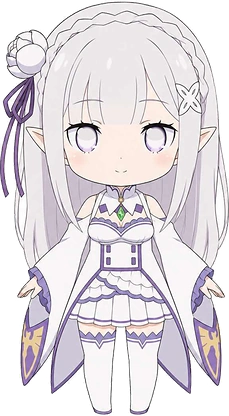
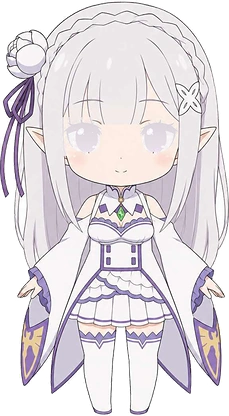
fix(pet): 眼部改三层结构，修复底层残留眼球与闭眼整片发白
- 底图：整只眼内部铺满眼白（提亮 35%，纵向微渐变），彻底清掉原虹膜，不再出现“上层动、底层不动”
- 虹膜层：彩色连通块填洞 + 外扩 2px，仅此层跟随指针
- 睫毛层：眼内深色像素（挖掉虹膜）外扩 1px，固定置顶，压住虹膜越界部分
- 闭眼帧：按整只眼内区域覆盖肤色 + 睫毛弧，不再只盖虹膜导致眼眶发白
- 闭眼帧预载降到 1×（省 27KB）

Changed region(s): [[0.2445, 0.2812, 0.4279, 0.375], [0.6114, 0.2812, 0.7642, 0.375]]

diff --git a/source/js/pet.js b/source/js/pet.js
@@ -39,16 +39,21 @@
   var SPRITE_CLOSED_1X = '/images/pet/front_closed_208.webp';
   var SPRITE_CLOSED_2X = '/images/pet/front_closed_416.webp';
   var SPRITE_CLOSED_3X = '/images/pet/front_closed_624.webp';
-  // 只覆盖虹膜本体（底图里的虹膜已被抹成眼白），眼眶/睫毛不动
+  // 三层结构：底图（眼内已铺满眼白）+ 会动的虹膜 + 固定在最上层的睫毛/眼眶
   var EYES = [
-    { src: '/images/pet/iris_l.webp', src2: '/images/pet/iris_l@2x.webp', src3: '/images/pet/iris_l@3x.webp', x: 32.81, y: 30.15, w: 9.90, h: 6.01 },
-    { src: '/images/pet/iris_r.webp', src2: '/images/pet/iris_r@2x.webp', src3: '/images/pet/iris_r@3x.webp', x: 63.02, y: 30.25, w: 9.55, h: 5.92 }
+    { src: '/images/pet/iris_l.webp', src2: '/images/pet/iris_l@2x.webp', src3: '/images/pet/iris_l@3x.webp', x: 32.29, y: 29.87, w: 11.11, h: 6.68 },
+    { src: '/images/pet/iris_r.webp', src2: '/images/pet/iris_r@2x.webp', src3: '/images/pet/iris_r@3x.webp', x: 62.33, y: 31.30, w: 10.94, h: 5.34 }
+  ];
+  var LASHES = [
+    { src: '/images/pet/lash_l.webp', src2: '/images/pet/lash_l@2x.webp', src3: '/images/pet/lash_l@3x.webp', x: 26.91, y: 27.96, w: 17.88, h: 9.73 },
+    { src: '/images/pet/lash_r.webp', src2: '/images/pet/lash_r@2x.webp', src3: '/images/pet/lash_r@3x.webp', x: 60.94, y: 28.63, w: 17.19, h: 8.49 }
   ];
   var MAX_EYE_X = 2.0, MAX_EYE_Y = 1.3;   // 虹膜最大位移（CSS px，1x）
   var TILT_START = 0.62;                  // 指针偏移超过这个比例才开始带头部倾斜
   var MAX_TILT_Y = 3.2, MAX_TILT_X = 2.2;
   var artEl = null;             // 承载倾斜的 card
-  var eyeEls = [];              // 眼睛跟随补丁层
+  var eyeEls = [];              // 虹膜补丁（跟随）
+  var lashEls = [];             // 睫毛/眼眶补丁（固定，置于最上层）
   var layers = [];              // 兼容旧接口，sprite 模式恒为空
   var headTilt = null;
   var target = { x: 0, y: 0 };  // 归一化指针方向 [-1,1]
@@ -171,23 +176,28 @@
     kickTilt();
   }
 
+  function addLayer(card, cfg, cls, collect) {
+    var el2 = document.createElement('img');
+    el2.className = cls;
+    el2.alt = '';
+    el2.draggable = false;
+    el2.src = cfg.src;
+    el2.srcset = cfg.src2 + ' 2x, ' + cfg.src3 + ' 3x';
+    el2.style.left = cfg.x + '%';
+    el2.style.top = cfg.y + '%';
+    el2.style.width = cfg.w + '%';
+    el2.style.height = cfg.h + '%';
+    card.appendChild(el2);
+    if (collect) collect.push(el2);
+    return el2;
+  }
+
   function buildEyeLayers(card) {
     eyeEls = [];
-    for (var i = 0; i < EYES.length; i++) {
-      var cfg = EYES[i];
-      var el2 = document.createElement('img');
-      el2.className = 'pet-eye';
-      el2.alt = '';
-      el2.draggable = false;
-      el2.src = cfg.src;
-      el2.srcset = cfg.src2 + ' 2x, ' + cfg.src3 + ' 3x';
-      el2.style.left = cfg.x + '%';
-      el2.style.top = cfg.y + '%';
-      el2.style.width = cfg.w + '%';
-      el2.style.height = cfg.h + '%';
-      card.appendChild(el2);
-      eyeEls.push(el2);
-    }
+    lashEls = [];
+    for (var i = 0; i < EYES.length; i++) addLayer(card, EYES[i], 'pet-eye', eyeEls);
+    // 睫毛层最后添加 → 永远盖在虹膜之上，虹膜移动时被它裁住不会越界
+    for (var j = 0; j < LASHES.length; j++) addLayer(card, LASHES[j], 'pet-lash', lashEls);
   }
 
   function mountArt(card, img) {
@@ -223,10 +233,12 @@
     if (!blinkImg || !el || document.hidden) { scheduleBlink(); return; }
     blinkOn = true;
     for (var i = 0; i < eyeEls.length; i++) eyeEls[i].style.opacity = '0';
+    for (var k = 0; k < lashEls.length; k++) lashEls[k].style.opacity = '0';
     swapFrame(blinkImg, true);
     setTimeout(function () {
       blinkOn = false;
       for (var j = 0; j < eyeEls.length; j++) eyeEls[j].style.opacity = '1';
+      for (var m = 0; m < lashEls.length; m++) lashEls[m].style.opacity = '1';
       if (blinkImg) swapFrame(blinkImg, false);
       scheduleBlink();
     }, 135);
@@ -237,7 +249,6 @@
     // 预载闭眼帧，避免首次切换闪白
     try {
       var pre = new Image();
-      pre.srcset = SPRITE_CLOSED_2X + ' 2x, ' + SPRITE_CLOSED_3X + ' 3x';
       pre.src = SPRITE_CLOSED_1X;
     } catch (e) {}
     scheduleBlink();

diff --git a/source/css/pet.css b/source/css/pet.css
@@ -32,7 +32,8 @@
 }
 
 /* 眼睛跟随补丁：叠在精灵上，只做小范围位移 */
-#pet-widget .pet-eye {
+#pet-widget .pet-eye,
+#pet-widget .pet-lash {
   position: absolute;
   pointer-events: none;
   opacity: 1;

diff --git a/source/images/pet/ATTRIBUTION.md b/source/images/pet/ATTRIBUTION.md
@@ -4,7 +4,7 @@
 |---|---|---|---|---|---|
 | 角色三视图（左=正面，中=侧面，右=背面） | 不入库（原始 1536×1024 JPEG，站方本地保存） | 阿万提供，AI 生成 | 站方自有素材；仅本站非商业展示 | 2026-10-29 | 未修改 |
 | 正面视图精灵 | `front_208.png`（1×）、`front_416.webp`（2×）、`front_closed_*`（闭眼帧） | 同上 | 同上 | 2026-10-29 | 从三视图左侧「正面」裁切 → 洪水填充去白底（容差 6）→ 边缘 2px 羽化 → 缩放至 208 / 416 高；闭眼帧在此基础上用肤色眼睑 + 睫毛弧覆盖双眼 |
-| 虹膜跟随补丁 | `iris_l.webp` / `iris_r.webp`（1×）、`*@2x.webp`（2×） | 同上 | 同上 | 2026-10-29 | 按实测虹膜 bbox（L 193–242/320–375，R 367–414/321–375）各外扩 4px 裁出、边缘 3px 羽化；底图中的虹膜同步用眼白色椭圆覆盖并加 10% 上眼睑投影，实现“只动眼珠、眼眶不动” |
+| 眼部三层素材 | `iris_l/r.webp`（虹膜，跟随）、`lash_l/r.webp`（睫毛/眼眶，固定置顶）各含 1×/2×/3× | 同上 | 同上 | 2026-10-29 | 底图整只眼内部铺满提亮 35% 的眼白（含纵向微渐变）；虹膜为彩色连通块填洞后外扩 2px；睫毛为眼内深色像素（挖掉虹膜后）外扩 1px。虹膜位移时由睫毛层压边，不会越界 |
 
 ## 说明
 
